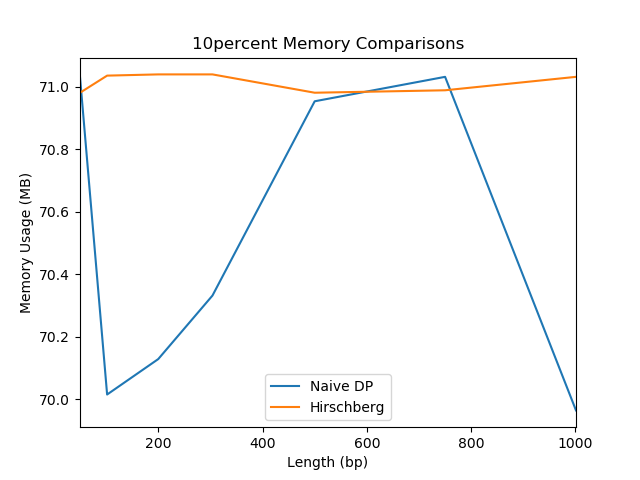
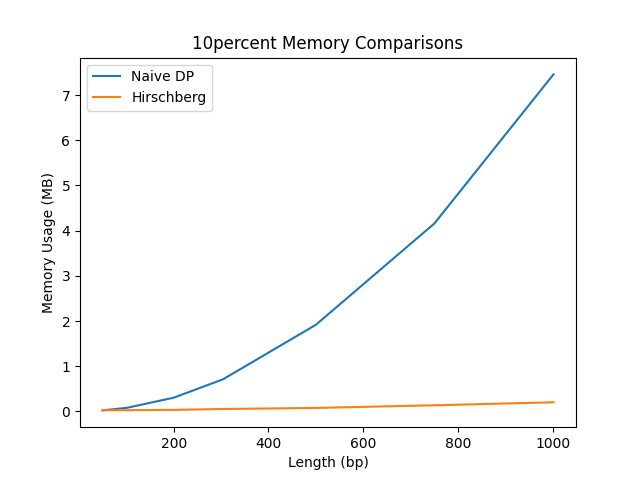
Benchmarking: Fixed memory benchmarking + cleanup
Isolated each alignment run into its own python program that is then
called with subprocess so that none of the other stuff happening bleeds
into the memory benchmark, and it seems to work.
Also removed some unused stuff in benchmark.py.

diff --git a/benchmark.py b/benchmark.py
@@ -2,19 +2,24 @@ import timeit  # from https://pypi.org/project/memory-profiler/
 from memory_profiler import memory_usage
 from global_alignment_functions import *
 import os, glob, psutil
+import subprocess
 
+def mem_benchmark(a, b, alignment):
+    """Benchmark one run of given alignment with strings a and b."""
+    out = subprocess.run(['python3', 'mem_benchmark.py', a, b, alignment],
+                         capture_output = True,
+                         text = True)
+    if out.stderr:
+        raise ValueError(out.stderr)
+    return float(out.stdout)
 
-def test_run(codestring):
-    exec(codestring)
-
-def get_memory_use():
-    pid = os.getpid()
-    py = psutil.Process(pid)
-    memoryUse = py.memory_info()[0]/2.**30  # memory use in GB...I think
-    memoryUse = memoryUse * 1000 # change to MB
-    # 1000000000 # change to Bytes
-    return memoryUse
-    # print('memory use:', memoryUse)
+def avg_mem_benchmark(iters, a, b, alignment):
+    """Takes the average memory usage of n=iters runs."""
+    total = 0
+    for i in range(iters):
+        total += mem_benchmark(a, b, alignment)
+    avg = total / iters
+    return avg
 
 '''
 Test a function based on real data comparisons in "./test_strings/real_comp".
@@ -54,34 +59,15 @@ from global_alignment_functions import FUNCTION_TEST, get_cost
             # sec_time = t.timeit(100000)/100000  # Average time over 100,000 runs
             sec_time = t.timeit(10) # to test benchmarking is working 
 
-            # print(get_memory_use())
-            # mem_before = get_memory_use()
-            # test_run(TEST_CODE)
-            # mem_usage = memory_usage(test_run(TEST_CODE), interval=.05, timeout=(sec_time*1.2 + 1))
-            # print("in")
-            if func_name == "dp":
-                mem_usage = memory_usage((dp, (str1[-1], str2[-1], get_cost)))
-            else:
-                mem_usage = memory_usage((hirschberg, (str1[-1], str2[-1], get_cost)))
-            # print("out")
-            net_mem_use = max(mem_usage) 
-            # - mem_before
-            # net_mem_use = get_memory_use() - mem_before
-            data[os.path.basename(filename)] = {"runtime": sec_time, "mem_use": net_mem_use, "length": length_bp}
-            # print(ans)
-            # print("Memory Use: " + str(mem_used))
+            mem_use = avg_mem_benchmark(1, str1[:-1], str2[:-1], func_name)
 
-            # TODO: Alternative way to track memory use?
-            # mem_usage = memory_usage(test_run(TEST_CODE), interval=.1, timeout=(sec_time*1.5))
-            # print(mem_usage)
-            # print(max(mem_usage))
+            data[os.path.basename(filename)] = {"runtime": sec_time, "mem_use": mem_use, "length": length_bp}
     return data
-
 
 # if __name__ == '__main__':
 #     # test real data
-#     test_func_data("./test_strings/real_comp", "dp")
-#     test_func_data("./test_strings/real_comp", "hirschberg")
+#     #test_func_data("./test_strings/real_comp", "dp")
+#     #test_func_data("./test_strings/real_comp", "hirschberg")
 
-#     # test generated data
-
+#     test_func_data("./test_strings/artificial_comp/10percent", "dp")
+#     test_func_data("./test_strings/artificial_comp/10percent", "hirschberg")

diff --git a/mem_benchmark.py b/mem_benchmark.py
@@ -1,0 +1,28 @@
+from memory_profiler import memory_usage
+from global_alignment_functions import *
+
+import argparse
+
+def dummy_function():
+    pass
+
+def benchmark(a, b, alignment):
+    if alignment == 'dp':
+        func = dp
+    elif alignment == 'hirschberg':
+        func = hirschberg
+    else:
+        raise ValueError('Invalid alignment {alignment}\n')
+
+    init_mem = memory_usage(dummy_function, max_usage=True)
+    total_mem = memory_usage((func, (a, b, get_cost)), max_usage=True)
+    net_mem = total_mem - init_mem
+    print(net_mem)
+
+if __name__ == '__main__':
+    parser = argparse.ArgumentParser()
+    parser.add_argument('string_a', help='one of the strings to align')
+    parser.add_argument('string_b', help='the other string to align')
+    parser.add_argument('alignment', help='the type of alignment {dp, hirschberg, motr}')
+    args = parser.parse_args()
+    benchmark(args.string_a, args.string_b, args.alignment)
